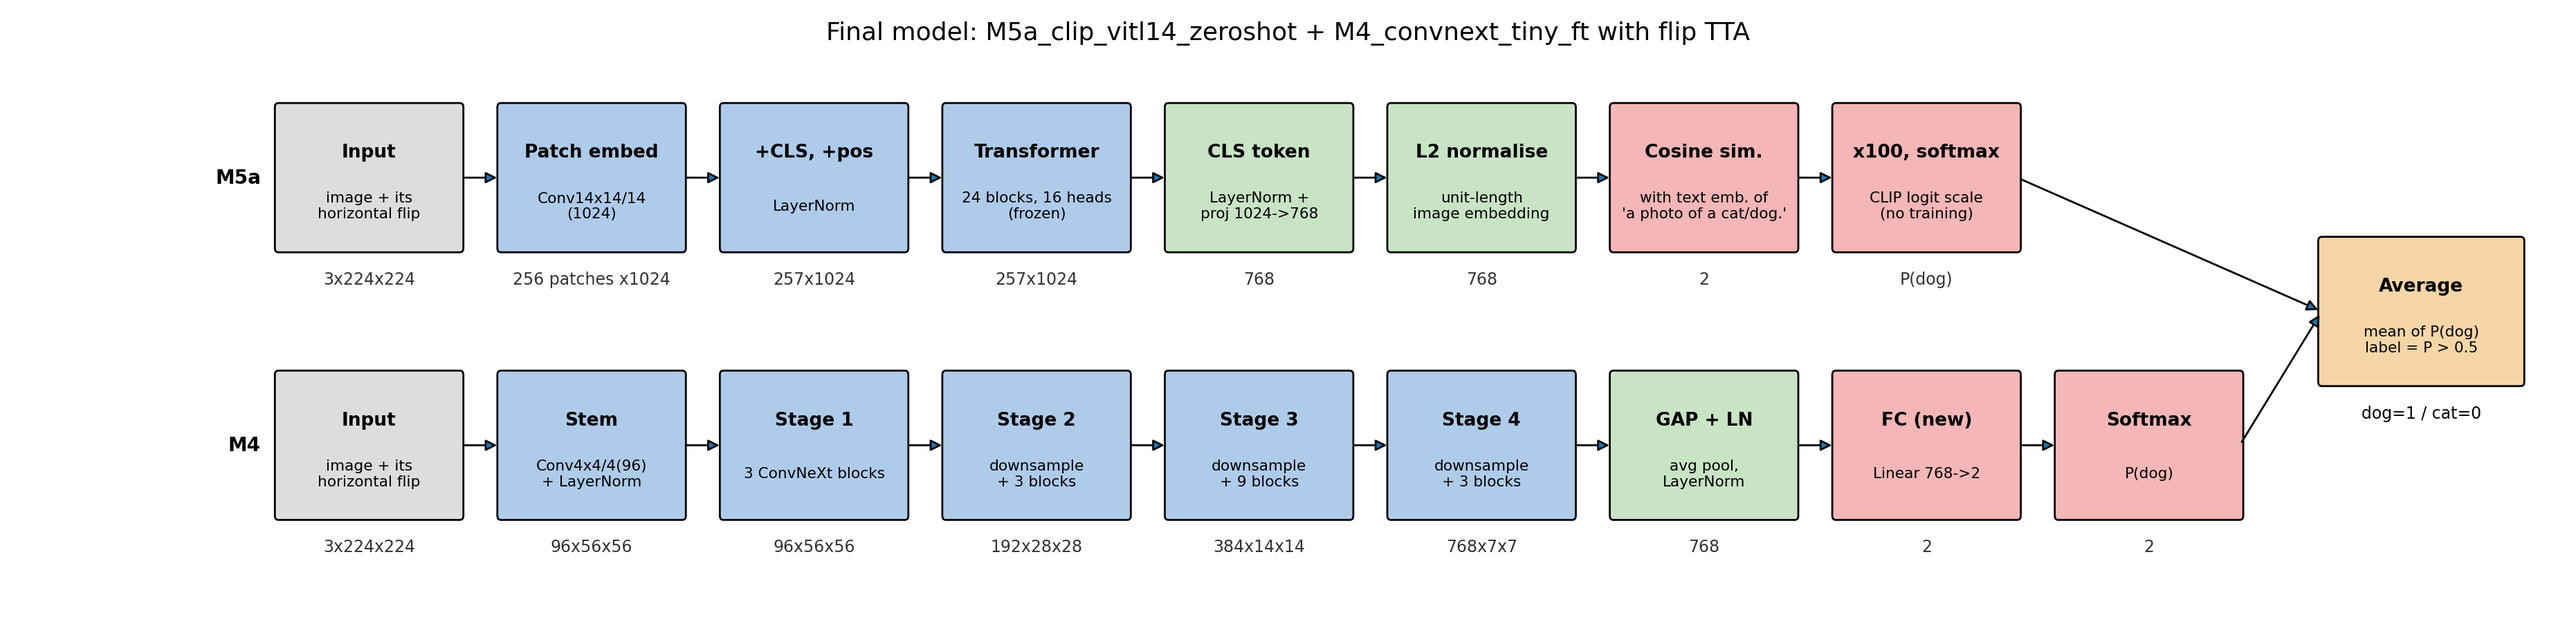
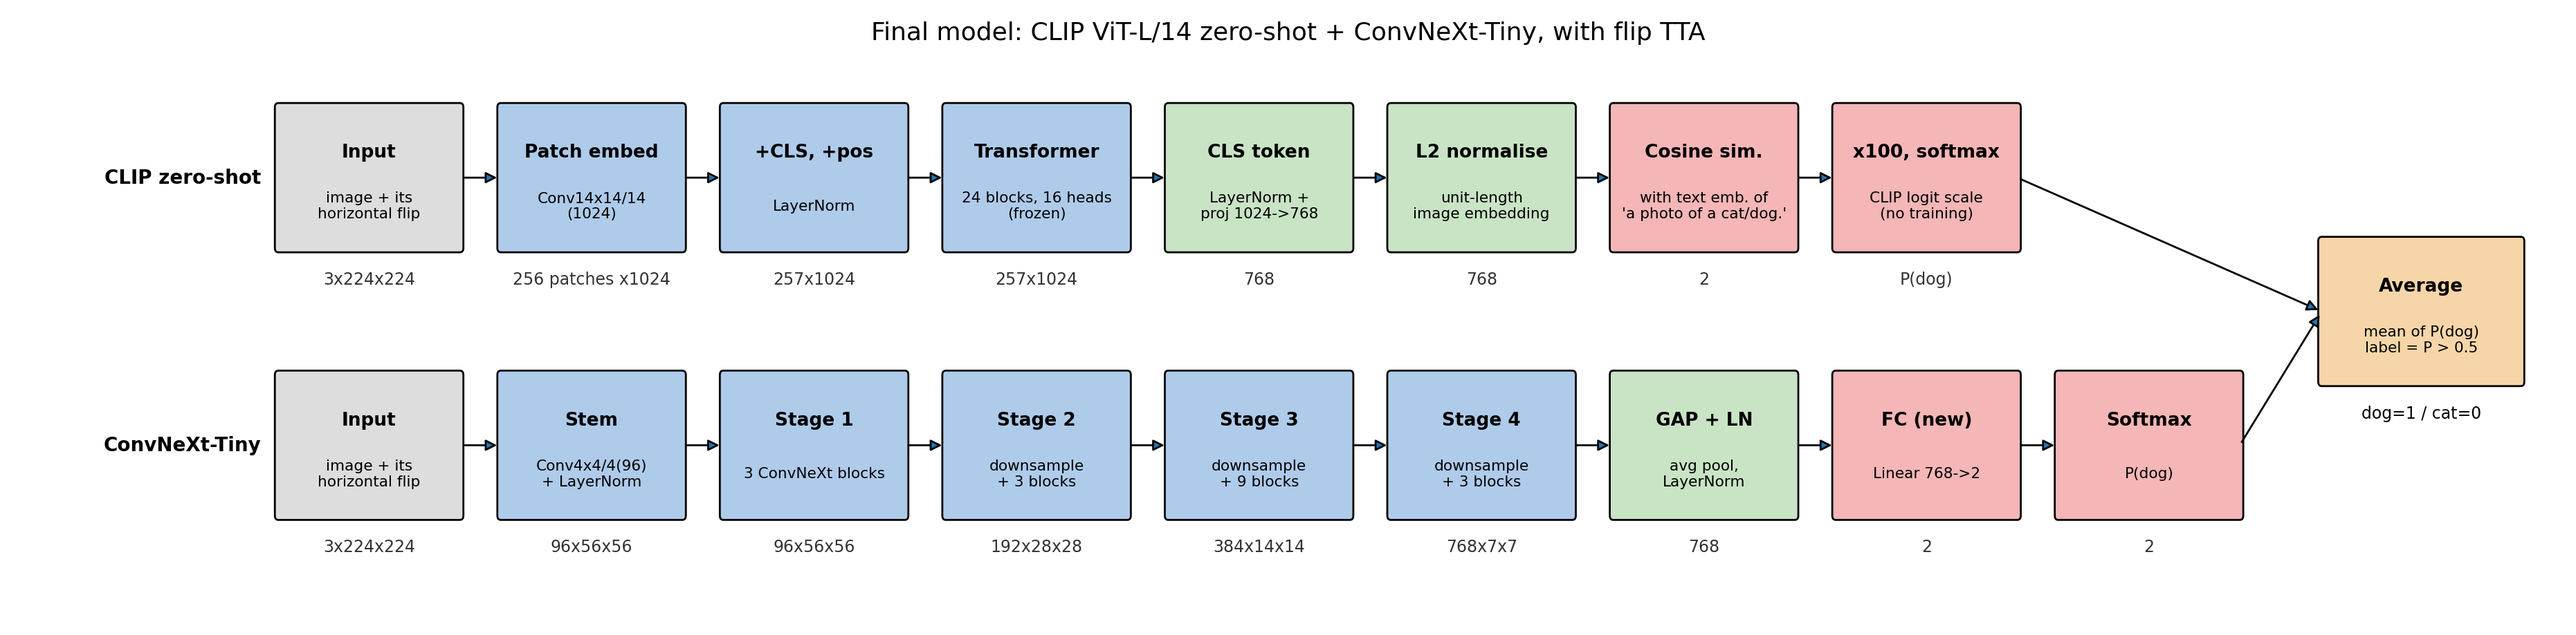
Use readable model names in figures

Changed region(s): [[0.3116, 0.0305, 0.6855, 0.0609], [0.0312, 0.6703, 0.0935, 0.7312], [0.0312, 0.2742, 0.0935, 0.3047]]

diff --git a/scripts/eval_cifar.py b/scripts/eval_cifar.py
@@ -23,6 +23,7 @@ from src.utils import CIFAR_RESULTS, PROJECT_ROOT, Timer, write_csv
 
 plt.rcParams.update({"font.size": 12, "axes.titlesize": 13, "axes.labelsize": 12})
 RUNS = os.path.join(CIFAR_RESULTS, "runs")
+DISPLAY = {"G1_resnet18_lr0.2_erase": "ResNet-18 from scratch", "G2_convnext_tiny": "ConvNeXt-Tiny pretrained"}
 
 
 def load_run(name):
@@ -61,18 +62,47 @@ def image_grid(images, titles, path, suptitle, ncols=8):
     plt.close(fig)
 
 
+def plot_confusion(main_preds, labels, S, seed, fig_dir):
+    # row-normalised confusion matrices
+    fig, axes = plt.subplots(1, len(main_preds), figsize=(8.5 * len(main_preds), 7.5), squeeze=False)
+    for ax, (g, (pred, _)) in zip(axes[0], main_preds.items()):
+        cm = confusion_matrix(labels, pred, labels=range(10), normalize="true")
+        ax.imshow(cm, cmap="Blues", vmin=0, vmax=1)
+        for i in range(10):
+            for j in range(10):
+                if cm[i, j] >= 0.005:
+                    ax.text(j, i, f"{cm[i, j]:.2f}", ha="center", va="center", fontsize=8,
+                            color="white" if cm[i, j] > 0.5 else "black")
+        ax.set_xticks(range(10), CIFAR_CLASSES, rotation=45, ha="right")
+        ax.set_yticks(range(10), CIFAR_CLASSES)
+        ax.set(xlabel="predicted", ylabel="true label",
+               title=f"{DISPLAY.get(g, g)}, seed {seed} ({S} acc {(pred == labels).mean():.4f})")
+    plt.tight_layout()
+    plt.savefig(os.path.join(fig_dir, f"fig_cifar_confusion_{S}.png"), dpi=200)
+    plt.close(fig)
+
+
 def main():
     parser = argparse.ArgumentParser()
     parser.add_argument("--groups", nargs="+", required=True, help="run names without the _s<seed> suffix")
     parser.add_argument("--seeds", nargs="+", type=int, default=[42, 43, 44])
     parser.add_argument("--split", default="test", choices=["test", "val"])
     parser.add_argument("--out", default=CIFAR_RESULTS)
+    parser.add_argument("--replot", action="store_true", help="redraw the confusion figure from saved preds")
     args = parser.parse_args()
 
     timer = Timer()
     device = "cuda"
     fig_dir = os.path.join(args.out, "figures")
     os.makedirs(fig_dir, exist_ok=True)
+    if args.replot:
+        main_preds = {}
+        for g in args.groups:
+            d = pd.read_csv(os.path.join(args.out, "runs", f"{g}_s{args.seeds[0]}", f"{args.split}_preds.csv"))
+            main_preds[g] = (d.pred.values, None)
+        plot_confusion(main_preds, d.label.values, args.split, args.seeds[0], fig_dir)
+        print(f"Total time: {timer}")
+        return
     if args.split == "test":
         images, labels = load_cifar(False)
     else:
@@ -136,23 +166,7 @@ def main():
     print(pd.DataFrame(per_class).pivot(index="cls", columns="group", values="f1").to_string())
     print(pairs.groupby("group").head(5).to_string(index=False))
 
-    # row-normalised confusion matrices
-    fig, axes = plt.subplots(1, len(main_preds), figsize=(8.5 * len(main_preds), 7.5), squeeze=False)
-    for ax, (g, (pred, _)) in zip(axes[0], main_preds.items()):
-        cm = confusion_matrix(labels, pred, labels=range(10), normalize="true")
-        ax.imshow(cm, cmap="Blues", vmin=0, vmax=1)
-        for i in range(10):
-            for j in range(10):
-                if cm[i, j] >= 0.005:
-                    ax.text(j, i, f"{cm[i, j]:.2f}", ha="center", va="center", fontsize=8,
-                            color="white" if cm[i, j] > 0.5 else "black")
-        ax.set_xticks(range(10), names, rotation=45, ha="right")
-        ax.set_yticks(range(10), names)
-        ax.set(xlabel="predicted", ylabel="true label",
-               title=f"{g}_s{args.seeds[0]} ({S} acc {(pred == labels).mean():.4f})")
-    plt.tight_layout()
-    plt.savefig(os.path.join(fig_dir, f"fig_cifar_confusion_{S}.png"), dpi=200)
-    plt.close(fig)
+    plot_confusion(main_preds, labels, S, args.seeds[0], fig_dir)
 
     # most confident mistakes, and cat<->dog mistakes
     cat, dog = names.index("cat"), names.index("dog")

diff --git a/scripts/plot_arch.py b/scripts/plot_arch.py
@@ -200,6 +200,11 @@ BUILDERS = {"simplecnn": simplecnn_boxes, "resnet50": resnet50_boxes, "convnext_
 MEMBER_ARCH = {"M3_resnet50_ft": "resnet50", "M4_convnext_tiny_ft": "convnext_tiny",
                "M5b_clip_vitl14_logreg": "clip_vitl14", "M5a_clip_vitl14_zeroshot": "clip_zeroshot",
                "M1_simplecnn": "simplecnn"}
+DISPLAY = {"M3_resnet50_ft": "ResNet-50", "M4_convnext_tiny_ft": "ConvNeXt-Tiny",
+           "M5b_clip_vitl14_logreg": "CLIP + log. regression", "M5a_clip_vitl14_zeroshot": "CLIP zero-shot",
+           "M1_simplecnn": "SimpleCNN"}
+FULL_NAME = {"M5a_clip_vitl14_zeroshot": "CLIP ViT-L/14 zero-shot",
+             "M5b_clip_vitl14_logreg": "CLIP ViT-L/14 + logistic regression"}
 
 
 def main():
@@ -208,7 +213,7 @@ def main():
     targets = sys.argv[1:] or ["simplecnn", "final"]
     if "simplecnn" in targets:
         boxes, colors = simplecnn_boxes()
-        save_diagram([("", boxes, colors)], "M1: SimpleCNN (from scratch), 1.57M parameters",
+        save_diagram([("", boxes, colors)], "SimpleCNN (from scratch), 1.57M parameters",
                      os.path.join(FIG, "fig_arch_simplecnn.png"))
     if "final" in targets:
         cfg = json.load(open(os.path.join(DOGCAT_RESULTS, "final_config.json")))
@@ -217,10 +222,10 @@ def main():
             boxes, colors = BUILDERS[MEMBER_ARCH[m]]()
             if cfg["tta"]:
                 boxes[0] = (boxes[0][0], "image + its\nhorizontal flip", boxes[0][2])
-            rows.append((m.split("_")[0], boxes, colors))
-        tta = " with flip TTA" if cfg["tta"] else ""
+            rows.append((DISPLAY[m], boxes, colors))
+        tta = ", with flip TTA" if cfg["tta"] else ""
         merge = ("Average", "mean of P(dog)\nlabel = P > 0.5", "dog=1 / cat=0") if len(rows) > 1 else None
-        save_diagram(rows, f"Final model: {' + '.join(cfg['members'])}{tta}", os.path.join(FIG, "fig_arch_final.png"), merge)
+        save_diagram(rows, f"Final model: {' + '.join(FULL_NAME.get(m, DISPLAY[m]) for m in cfg['members'])}{tta}", os.path.join(FIG, "fig_arch_final.png"), merge)
     for t in ("resnet50", "convnext_tiny", "clip_vitl14"):  # shape tables only
         if t in targets:
             BUILDERS[t]()
